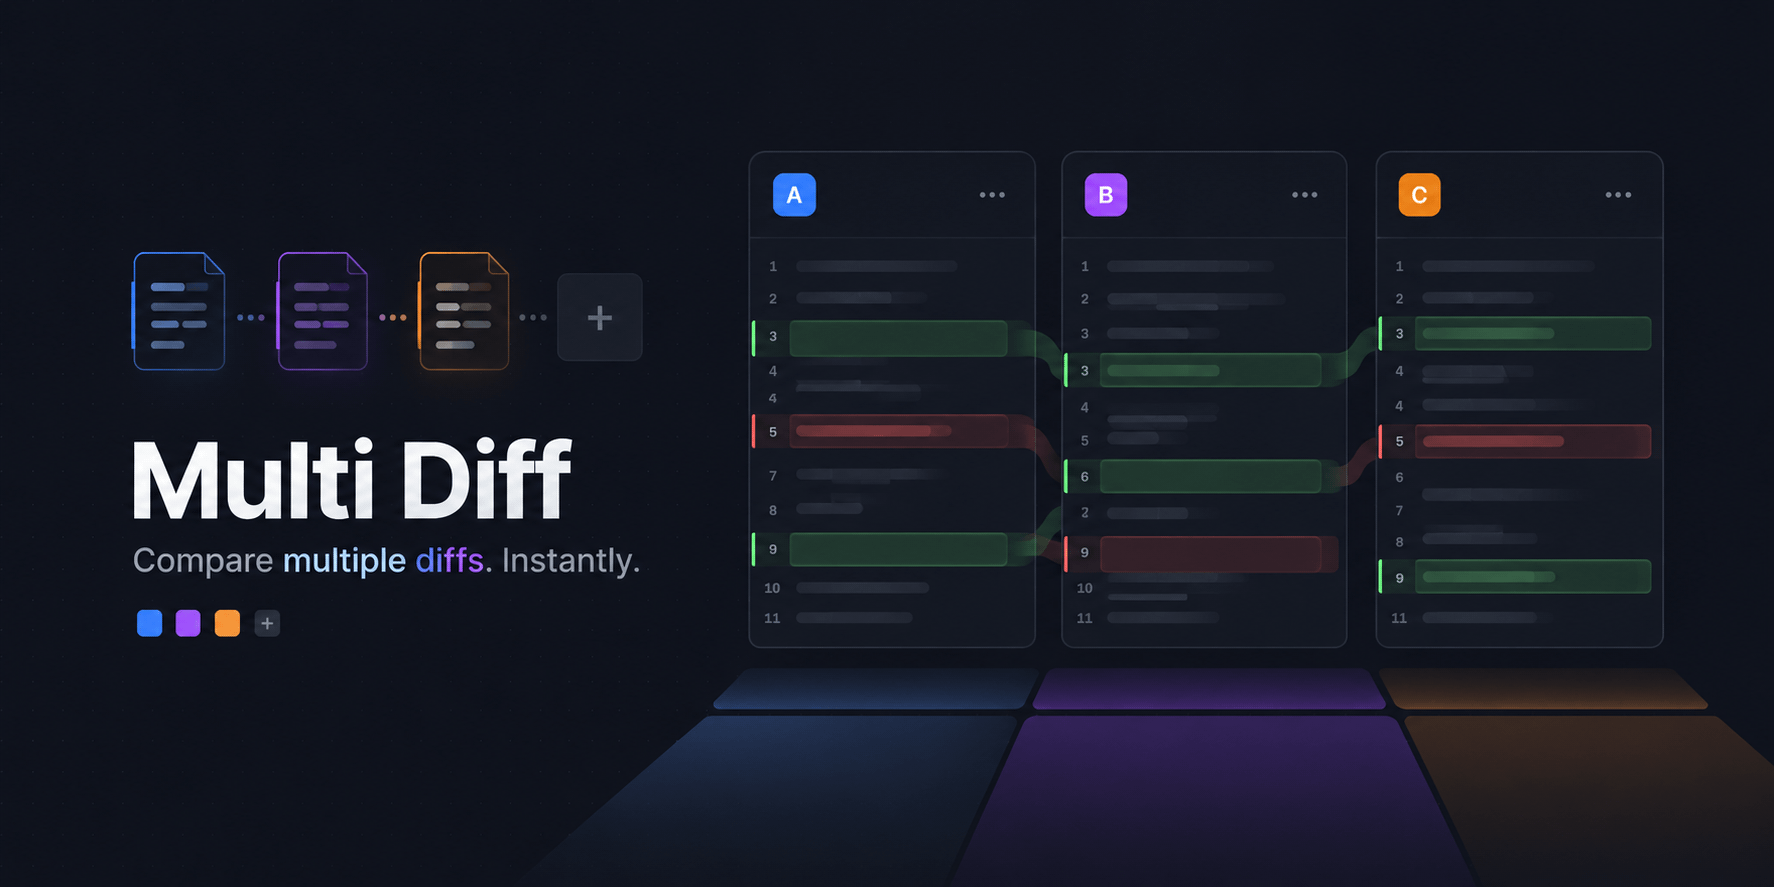
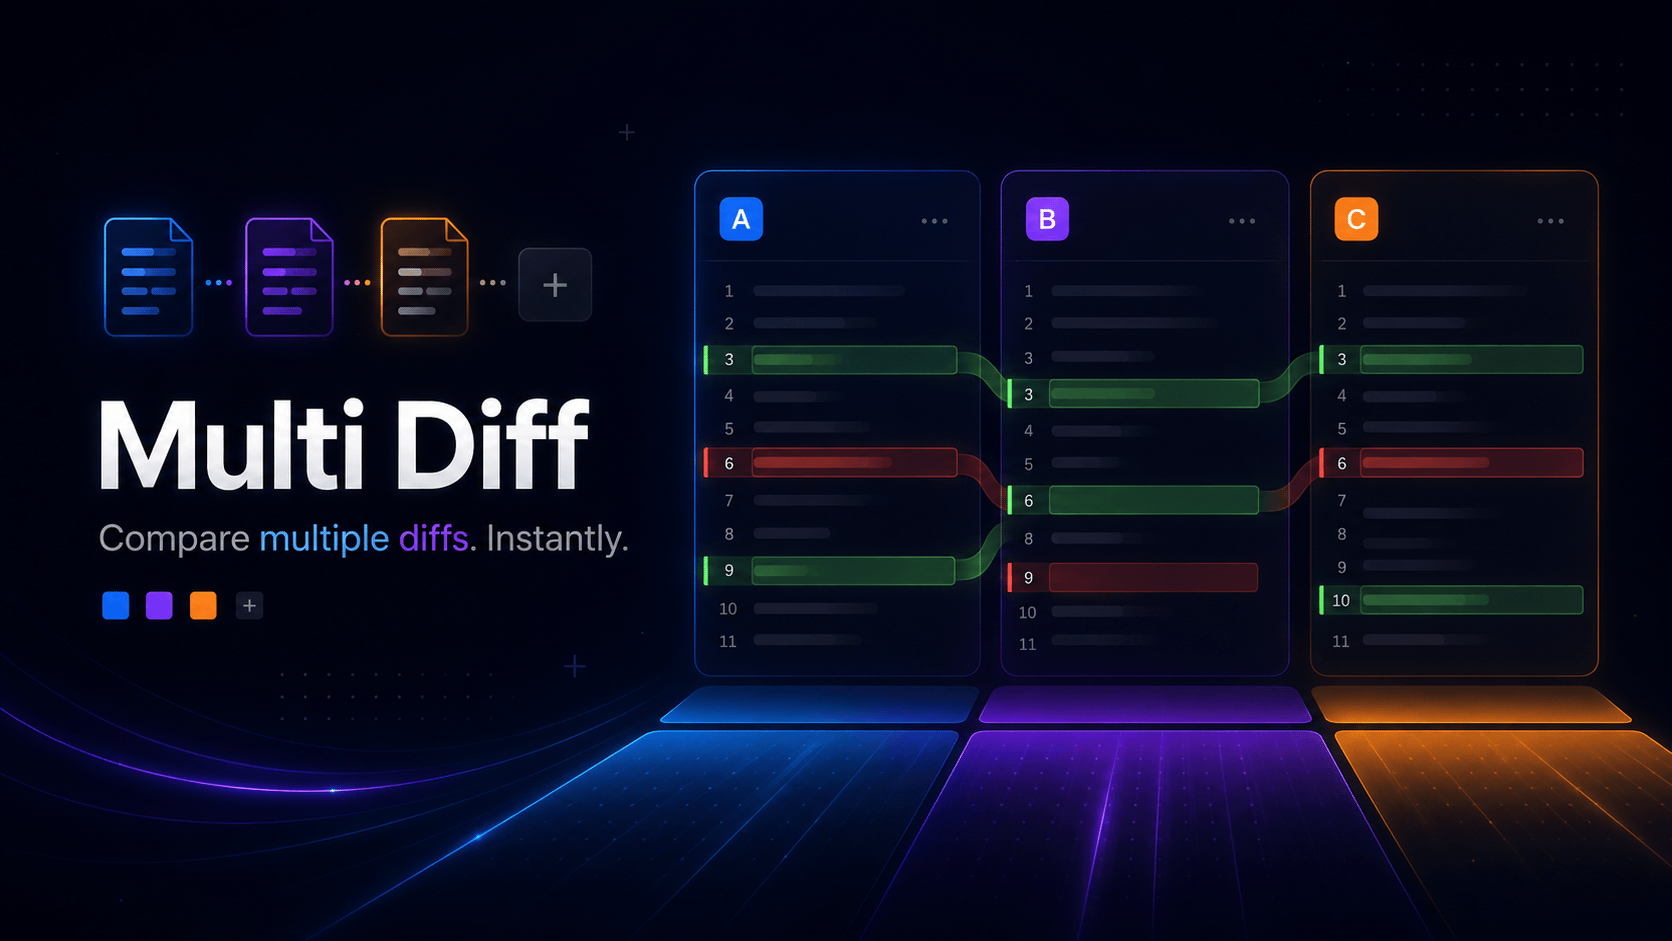
Update README screenshots

diff --git a/README.md b/README.md
@@ -7,6 +7,10 @@
 Multi Diff is a local-first workbench for comparing multiple unified diff files
 at once.
 
+<p align="center">
+  <img src="assets/screenshot-dark.png" alt="Multi Diff comparing multiple diffs in dark mode" width="100%">
+</p>
+
 Instead of opening one patch at a time, you can load **2-5 diffs**, assign them
 to lanes A-E, and review the same changed files across every candidate:
 